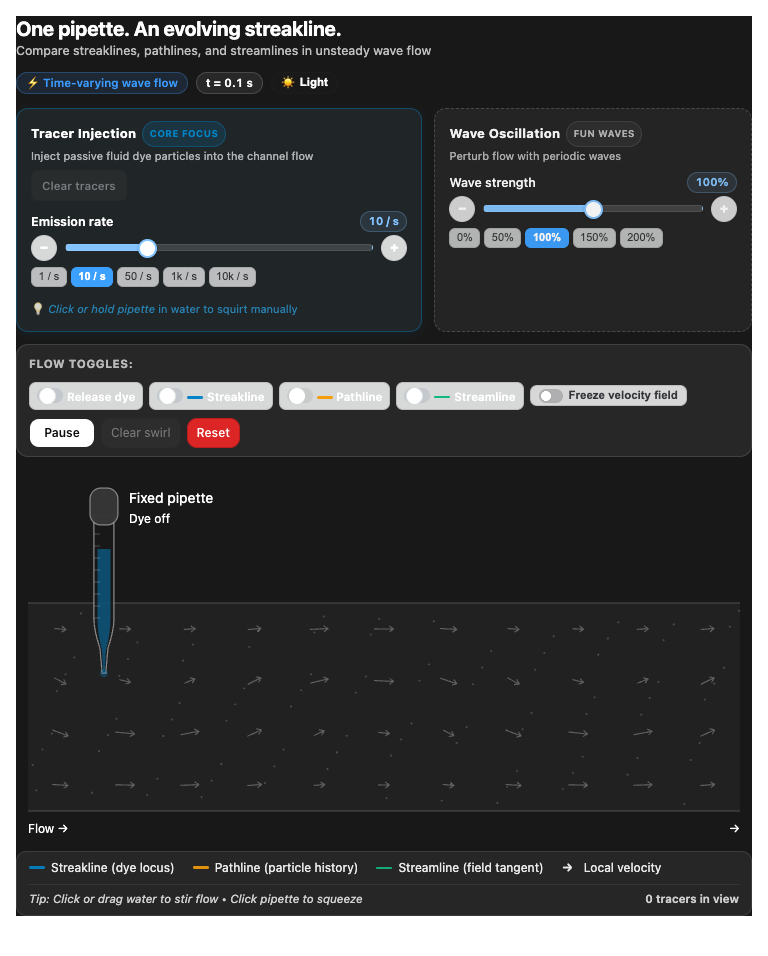
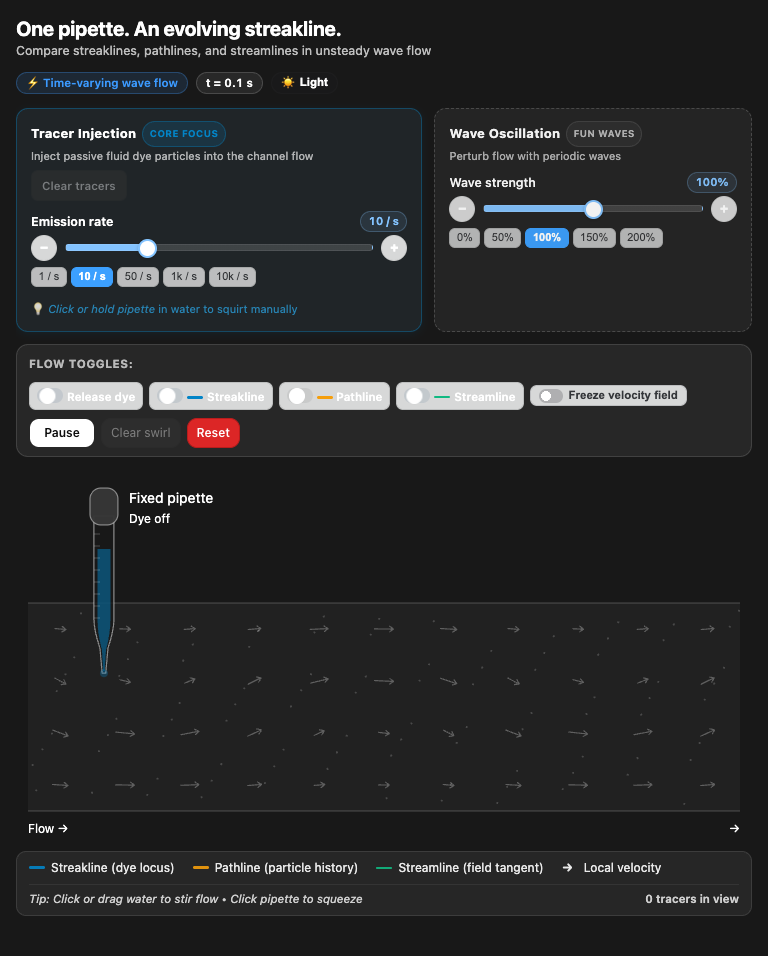
Fix dark mode background propagation across iframe and host window

Changed region(s): [[0.0, 0.0, 1.0, 1.0]]

diff --git a/dist/index.html b/dist/index.html
@@ -6,7 +6,7 @@
 <meta name="referrer" content="no-referrer">
 <meta http-equiv="Content-Security-Policy" content="default-src 'none'; script-src 'unsafe-inline' 'unsafe-eval' 'wasm-unsafe-eval' blob: data: https://cdnjs.cloudflare.com https://cdn.jsdelivr.net https://esm.sh https://fonts.bunny.net https://fonts.googleapis.com https://fonts.gstatic.com https://unpkg.com; style-src 'unsafe-inline' blob: data: https://cdnjs.cloudflare.com https://cdn.jsdelivr.net https://esm.sh https://fonts.bunny.net https://fonts.googleapis.com https://fonts.gstatic.com https://unpkg.com; img-src blob: data: https://cdnjs.cloudflare.com https://cdn.jsdelivr.net https://esm.sh https://fonts.bunny.net https://fonts.googleapis.com https://fonts.gstatic.com https://unpkg.com; font-src blob: data: https://cdnjs.cloudflare.com https://cdn.jsdelivr.net https://esm.sh https://fonts.bunny.net https://fonts.googleapis.com https://fonts.gstatic.com https://unpkg.com; media-src blob: data: https://cdnjs.cloudflare.com https://cdn.jsdelivr.net https://esm.sh https://fonts.bunny.net https://fonts.googleapis.com https://fonts.gstatic.com https://unpkg.com; worker-src blob:; connect-src blob: data:; frame-src 'self'; object-src 'none'; base-uri 'none'; form-action 'none'">
 <title>Streakline demonstration</title>
-<style>:root{color-scheme:light;background:#ffffff}html,body{margin:0;background:#ffffff}body{box-sizing:border-box;padding:1rem;background:#ffffff}iframe{display:block;width:100%;height:calc(100vh - 2rem);margin:0 auto;border:0;background:#ffffff}</style>
+<style>:root{color-scheme:light dark;background:light-dark(#ffffff,#181818)}html,body{margin:0;background:light-dark(#ffffff,#181818)}body{box-sizing:border-box;padding:1rem;background:light-dark(#ffffff,#181818)}iframe{display:block;width:100%;height:calc(100vh - 2rem);margin:0 auto;border:0;background:light-dark(#ffffff,#181818)}:root[data-theme="dark"],:root[data-theme="dark"] body,:root[data-theme="dark"] iframe{background:#181818;color-scheme:dark}:root[data-theme="light"],:root[data-theme="light"] body,:root[data-theme="light"] iframe{background:#ffffff;color-scheme:light}</style>
 </head>
 <body>
 <iframe id="codex-visualization" sandbox="allow-scripts" referrerpolicy="no-referrer" title="Streakline demonstration" data-srcdoc="&lt;!doctype html&gt;
@@ -2266,9 +2266,13 @@ html&gt;body{padding:0}&lt;/style&gt;
   }
   function applyTheme(t) {
     const isDark = (t === &#x27;dark&#x27;);
+    const bg = isDark ? &#x27;#181818&#x27; : &#x27;#ffffff&#x27;;
     document.documentElement.dataset.theme = t;
     document.documentElement.style.colorScheme = t;
+    document.documentElement.style.setProperty(&#x27;background&#x27;, bg, &#x27;important&#x27;);
+    document.body.style.setProperty(&#x27;background&#x27;, bg, &#x27;important&#x27;);
     root.style.colorScheme = t;
+    root.style.setProperty(&#x27;background&#x27;, bg, &#x27;important&#x27;);
     root.classList.toggle(&#x27;sl-theme-dark&#x27;, isDark);
     if (themeIcon) themeIcon.textContent = isDark ? &#x27;☀&#x27; : &#x27;🌙&#x27;;
     if (themeText) themeText.textContent = isDark ? &#x27;Light&#x27; : &#x27;Dark&#x27;;
@@ -2277,6 +2281,9 @@ html&gt;body{padding:0}&lt;/style&gt;
       themeToggle.setAttribute(&#x27;title&#x27;, isDark ? &#x27;Switch to light mode&#x27; : &#x27;Switch to dark mode&#x27;);
       themeToggle.classList.toggle(&#x27;is-dark&#x27;, isDark);
     }
+    try {
+      window.parent.postMessage({ type: &#x27;theme-change&#x27;, theme: t }, &#x27;*&#x27;);
+    } catch {}
   }
   function toggleTheme() {
     const current = (document.documentElement.dataset.theme === &#x27;dark&#x27; || root.style.colorScheme === &#x27;dark&#x27;) ? &#x27;dark&#x27; : &#x27;light&#x27;;
@@ -2904,6 +2911,7 @@ html&gt;body{padding:0}&lt;/style&gt;
 
 
 
+
 &lt;script src=&quot;https://unpkg.com/@floating-ui/core@1.7.3/dist/floating-ui.core.umd.min.js&quot;&gt;&lt;/script&gt;
 &lt;script src=&quot;https://unpkg.com/@floating-ui/dom@1.7.4/dist/floating-ui.dom.umd.min.js&quot;&gt;&lt;/script&gt;
 &lt;script&gt;
@@ -3453,6 +3461,25 @@ html&gt;body{padding:0}&lt;/style&gt;
       JSON.stringify(initialGlobals).replaceAll("<", "\\u003c") +
       "<\/script>",
   );
+    const updateHostTheme = (t) => {
+    document.documentElement.dataset.theme = t;
+    document.documentElement.style.colorScheme = t;
+    const bg = t === "dark" ? "#181818" : "#ffffff";
+    document.documentElement.style.background = bg;
+    document.body.style.background = bg;
+    if (frame) frame.style.background = bg;
+  };
+  globalThis.addEventListener("message", (event) => {
+    if (event.data?.type === "theme-change") {
+      updateHostTheme(event.data.theme);
+    }
+  });
+  const savedHostTheme = (() => {
+    try { return localStorage.getItem("sl-theme"); } catch { return null; }
+  })() || (globalThis.matchMedia("(prefers-color-scheme: dark)").matches ? "dark" : "light");
+  if (savedHostTheme === "dark") {
+    updateHostTheme("dark");
+  }
   delete frame.dataset.srcdoc;
 })();
 </script>

diff --git a/outputs/streakline-demo.html b/outputs/streakline-demo.html
@@ -6,7 +6,7 @@
 <meta name="referrer" content="no-referrer">
 <meta http-equiv="Content-Security-Policy" content="default-src 'none'; script-src 'unsafe-inline' 'unsafe-eval' 'wasm-unsafe-eval' blob: data: https://cdnjs.cloudflare.com https://cdn.jsdelivr.net https://esm.sh https://fonts.bunny.net https://fonts.googleapis.com https://fonts.gstatic.com https://unpkg.com; style-src 'unsafe-inline' blob: data: https://cdnjs.cloudflare.com https://cdn.jsdelivr.net https://esm.sh https://fonts.bunny.net https://fonts.googleapis.com https://fonts.gstatic.com https://unpkg.com; img-src blob: data: https://cdnjs.cloudflare.com https://cdn.jsdelivr.net https://esm.sh https://fonts.bunny.net https://fonts.googleapis.com https://fonts.gstatic.com https://unpkg.com; font-src blob: data: https://cdnjs.cloudflare.com https://cdn.jsdelivr.net https://esm.sh https://fonts.bunny.net https://fonts.googleapis.com https://fonts.gstatic.com https://unpkg.com; media-src blob: data: https://cdnjs.cloudflare.com https://cdn.jsdelivr.net https://esm.sh https://fonts.bunny.net https://fonts.googleapis.com https://fonts.gstatic.com https://unpkg.com; worker-src blob:; connect-src blob: data:; frame-src 'self'; object-src 'none'; base-uri 'none'; form-action 'none'">
 <title>Streakline demonstration</title>
-<style>:root{color-scheme:light;background:#ffffff}html,body{margin:0;background:#ffffff}body{box-sizing:border-box;padding:1rem;background:#ffffff}iframe{display:block;width:100%;height:calc(100vh - 2rem);margin:0 auto;border:0;background:#ffffff}</style>
+<style>:root{color-scheme:light dark;background:light-dark(#ffffff,#181818)}html,body{margin:0;background:light-dark(#ffffff,#181818)}body{box-sizing:border-box;padding:1rem;background:light-dark(#ffffff,#181818)}iframe{display:block;width:100%;height:calc(100vh - 2rem);margin:0 auto;border:0;background:light-dark(#ffffff,#181818)}:root[data-theme="dark"],:root[data-theme="dark"] body,:root[data-theme="dark"] iframe{background:#181818;color-scheme:dark}:root[data-theme="light"],:root[data-theme="light"] body,:root[data-theme="light"] iframe{background:#ffffff;color-scheme:light}</style>
 </head>
 <body>
 <iframe id="codex-visualization" sandbox="allow-scripts" referrerpolicy="no-referrer" title="Streakline demonstration" data-srcdoc="&lt;!doctype html&gt;
@@ -2266,9 +2266,13 @@ html&gt;body{padding:0}&lt;/style&gt;
   }
   function applyTheme(t) {
     const isDark = (t === &#x27;dark&#x27;);
+    const bg = isDark ? &#x27;#181818&#x27; : &#x27;#ffffff&#x27;;
     document.documentElement.dataset.theme = t;
     document.documentElement.style.colorScheme = t;
+    document.documentElement.style.setProperty(&#x27;background&#x27;, bg, &#x27;important&#x27;);
+    document.body.style.setProperty(&#x27;background&#x27;, bg, &#x27;important&#x27;);
     root.style.colorScheme = t;
+    root.style.setProperty(&#x27;background&#x27;, bg, &#x27;important&#x27;);
     root.classList.toggle(&#x27;sl-theme-dark&#x27;, isDark);
     if (themeIcon) themeIcon.textContent = isDark ? &#x27;☀&#x27; : &#x27;🌙&#x27;;
     if (themeText) themeText.textContent = isDark ? &#x27;Light&#x27; : &#x27;Dark&#x27;;
@@ -2277,6 +2281,9 @@ html&gt;body{padding:0}&lt;/style&gt;
       themeToggle.setAttribute(&#x27;title&#x27;, isDark ? &#x27;Switch to light mode&#x27; : &#x27;Switch to dark mode&#x27;);
       themeToggle.classList.toggle(&#x27;is-dark&#x27;, isDark);
     }
+    try {
+      window.parent.postMessage({ type: &#x27;theme-change&#x27;, theme: t }, &#x27;*&#x27;);
+    } catch {}
   }
   function toggleTheme() {
     const current = (document.documentElement.dataset.theme === &#x27;dark&#x27; || root.style.colorScheme === &#x27;dark&#x27;) ? &#x27;dark&#x27; : &#x27;light&#x27;;
@@ -2904,6 +2911,7 @@ html&gt;body{padding:0}&lt;/style&gt;
 
 
 
+
 &lt;script src=&quot;https://unpkg.com/@floating-ui/core@1.7.3/dist/floating-ui.core.umd.min.js&quot;&gt;&lt;/script&gt;
 &lt;script src=&quot;https://unpkg.com/@floating-ui/dom@1.7.4/dist/floating-ui.dom.umd.min.js&quot;&gt;&lt;/script&gt;
 &lt;script&gt;
@@ -3453,6 +3461,25 @@ html&gt;body{padding:0}&lt;/style&gt;
       JSON.stringify(initialGlobals).replaceAll("<", "\\u003c") +
       "<\/script>",
   );
+    const updateHostTheme = (t) => {
+    document.documentElement.dataset.theme = t;
+    document.documentElement.style.colorScheme = t;
+    const bg = t === "dark" ? "#181818" : "#ffffff";
+    document.documentElement.style.background = bg;
+    document.body.style.background = bg;
+    if (frame) frame.style.background = bg;
+  };
+  globalThis.addEventListener("message", (event) => {
+    if (event.data?.type === "theme-change") {
+      updateHostTheme(event.data.theme);
+    }
+  });
+  const savedHostTheme = (() => {
+    try { return localStorage.getItem("sl-theme"); } catch { return null; }
+  })() || (globalThis.matchMedia("(prefers-color-scheme: dark)").matches ? "dark" : "light");
+  if (savedHostTheme === "dark") {
+    updateHostTheme("dark");
+  }
   delete frame.dataset.srcdoc;
 })();
 </script>

diff --git a/work/streakline-preview.html b/work/streakline-preview.html
@@ -6,7 +6,7 @@
 <meta name="referrer" content="no-referrer">
 <meta http-equiv="Content-Security-Policy" content="default-src 'none'; script-src 'unsafe-inline' 'unsafe-eval' 'wasm-unsafe-eval' blob: data: https://cdnjs.cloudflare.com https://cdn.jsdelivr.net https://esm.sh https://fonts.bunny.net https://fonts.googleapis.com https://fonts.gstatic.com https://unpkg.com; style-src 'unsafe-inline' blob: data: https://cdnjs.cloudflare.com https://cdn.jsdelivr.net https://esm.sh https://fonts.bunny.net https://fonts.googleapis.com https://fonts.gstatic.com https://unpkg.com; img-src blob: data: https://cdnjs.cloudflare.com https://cdn.jsdelivr.net https://esm.sh https://fonts.bunny.net https://fonts.googleapis.com https://fonts.gstatic.com https://unpkg.com; font-src blob: data: https://cdnjs.cloudflare.com https://cdn.jsdelivr.net https://esm.sh https://fonts.bunny.net https://fonts.googleapis.com https://fonts.gstatic.com https://unpkg.com; media-src blob: data: https://cdnjs.cloudflare.com https://cdn.jsdelivr.net https://esm.sh https://fonts.bunny.net https://fonts.googleapis.com https://fonts.gstatic.com https://unpkg.com; worker-src blob:; connect-src blob: data:; frame-src 'self'; object-src 'none'; base-uri 'none'; form-action 'none'">
 <title>Streakline Lab</title>
-<style>:root{color-scheme:light;background:#ffffff}html,body{margin:0;background:#ffffff}body{box-sizing:border-box;padding:1rem;background:#ffffff}iframe{display:block;width:100%;height:calc(100vh - 2rem);margin:0 auto;border:0;background:#ffffff}</style>
+<style>:root{color-scheme:light dark;background:light-dark(#ffffff,#181818)}html,body{margin:0;background:light-dark(#ffffff,#181818)}body{box-sizing:border-box;padding:1rem;background:light-dark(#ffffff,#181818)}iframe{display:block;width:100%;height:calc(100vh - 2rem);margin:0 auto;border:0;background:light-dark(#ffffff,#181818)}:root[data-theme="dark"],:root[data-theme="dark"] body,:root[data-theme="dark"] iframe{background:#181818;color-scheme:dark}:root[data-theme="light"],:root[data-theme="light"] body,:root[data-theme="light"] iframe{background:#ffffff;color-scheme:light}</style>
 </head>
 <body>
 <iframe id="codex-visualization" sandbox="allow-scripts" referrerpolicy="no-referrer" title="Streakline Lab" data-srcdoc="&lt;!doctype html&gt;
@@ -2266,9 +2266,13 @@ html&gt;body{padding:0}&lt;/style&gt;
   }
   function applyTheme(t) {
     const isDark = (t === &#x27;dark&#x27;);
+    const bg = isDark ? &#x27;#181818&#x27; : &#x27;#ffffff&#x27;;
     document.documentElement.dataset.theme = t;
     document.documentElement.style.colorScheme = t;
+    document.documentElement.style.setProperty(&#x27;background&#x27;, bg, &#x27;important&#x27;);
+    document.body.style.setProperty(&#x27;background&#x27;, bg, &#x27;important&#x27;);
     root.style.colorScheme = t;
+    root.style.setProperty(&#x27;background&#x27;, bg, &#x27;important&#x27;);
     root.classList.toggle(&#x27;sl-theme-dark&#x27;, isDark);
     if (themeIcon) themeIcon.textContent = isDark ? &#x27;☀&#x27; : &#x27;🌙&#x27;;
     if (themeText) themeText.textContent = isDark ? &#x27;Light&#x27; : &#x27;Dark&#x27;;
@@ -2277,6 +2281,9 @@ html&gt;body{padding:0}&lt;/style&gt;
       themeToggle.setAttribute(&#x27;title&#x27;, isDark ? &#x27;Switch to light mode&#x27; : &#x27;Switch to dark mode&#x27;);
       themeToggle.classList.toggle(&#x27;is-dark&#x27;, isDark);
     }
+    try {
+      window.parent.postMessage({ type: &#x27;theme-change&#x27;, theme: t }, &#x27;*&#x27;);
+    } catch {}
   }
   function toggleTheme() {
     const current = (document.documentElement.dataset.theme === &#x27;dark&#x27; || root.style.colorScheme === &#x27;dark&#x27;) ? &#x27;dark&#x27; : &#x27;light&#x27;;
@@ -2904,6 +2911,7 @@ html&gt;body{padding:0}&lt;/style&gt;
 
 
 
+
 &lt;script src=&quot;https://unpkg.com/@floating-ui/core@1.7.3/dist/floating-ui.core.umd.min.js&quot;&gt;&lt;/script&gt;
 &lt;script src=&quot;https://unpkg.com/@floating-ui/dom@1.7.4/dist/floating-ui.dom.umd.min.js&quot;&gt;&lt;/script&gt;
 &lt;script&gt;
@@ -3453,6 +3461,25 @@ html&gt;body{padding:0}&lt;/style&gt;
       JSON.stringify(initialGlobals).replaceAll("<", "\\u003c") +
       "<\/script>",
   );
+    const updateHostTheme = (t) => {
+    document.documentElement.dataset.theme = t;
+    document.documentElement.style.colorScheme = t;
+    const bg = t === "dark" ? "#181818" : "#ffffff";
+    document.documentElement.style.background = bg;
+    document.body.style.background = bg;
+    if (frame) frame.style.background = bg;
+  };
+  globalThis.addEventListener("message", (event) => {
+    if (event.data?.type === "theme-change") {
+      updateHostTheme(event.data.theme);
+    }
+  });
+  const savedHostTheme = (() => {
+    try { return localStorage.getItem("sl-theme"); } catch { return null; }
+  })() || (globalThis.matchMedia("(prefers-color-scheme: dark)").matches ? "dark" : "light");
+  if (savedHostTheme === "dark") {
+    updateHostTheme("dark");
+  }
   delete frame.dataset.srcdoc;
 })();
 </script>
